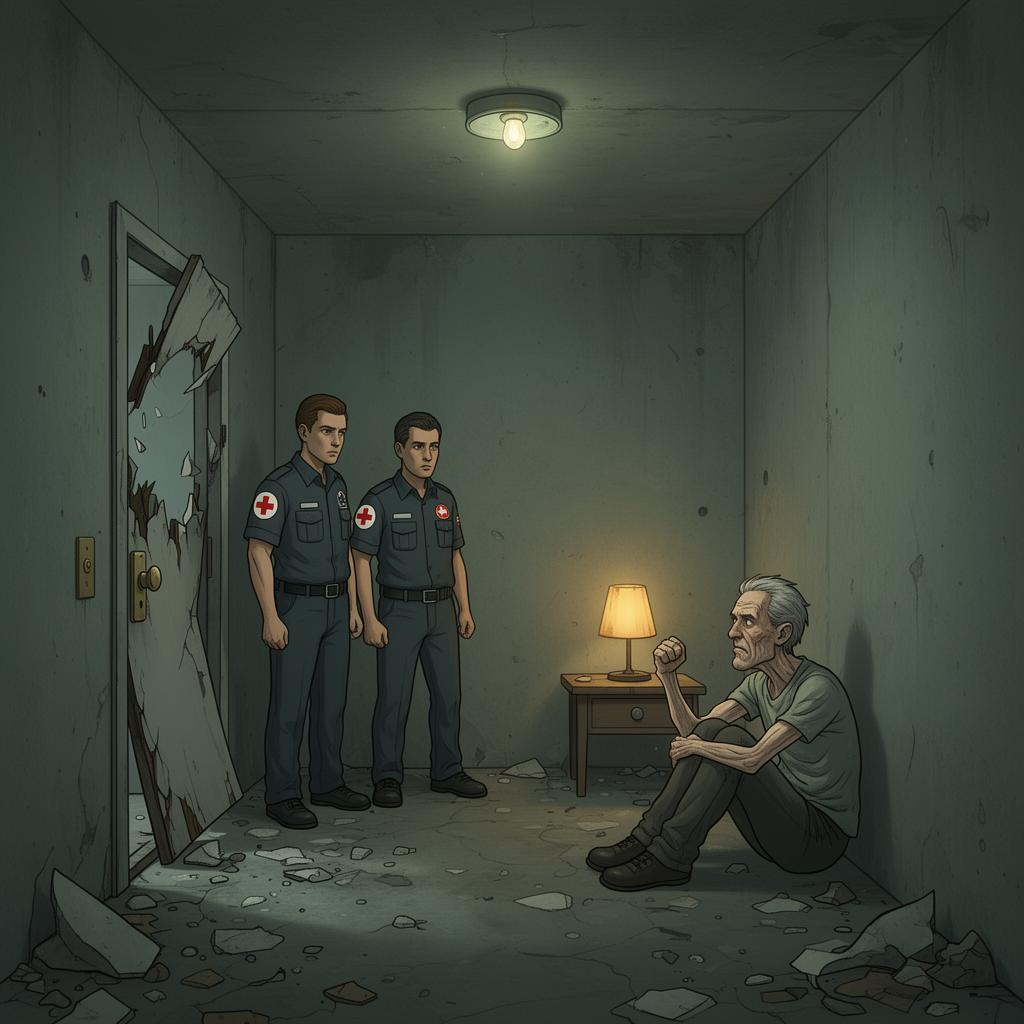
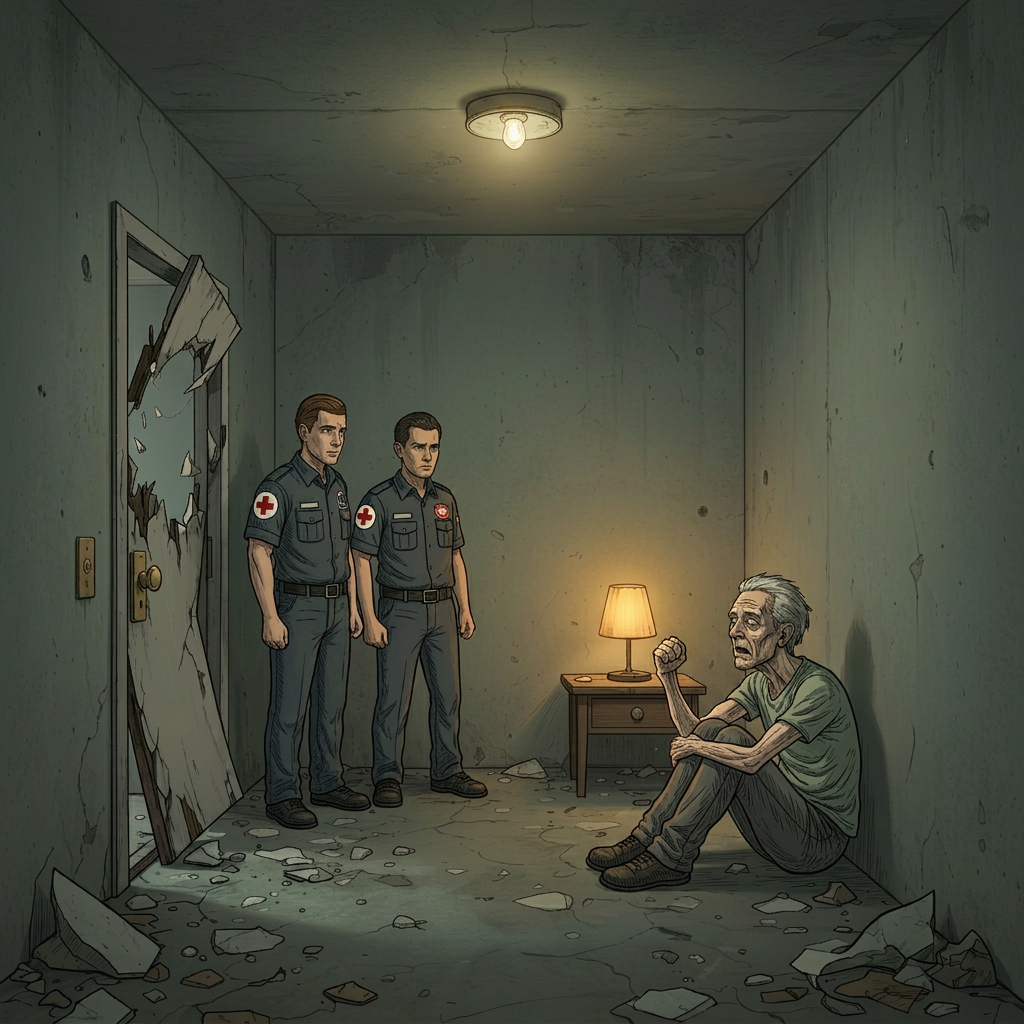
Changes

diff --git a/src/game/scenes.ts b/src/game/scenes.ts
@@ -327,12 +327,18 @@ export const scenes: Record<string, Scene> = {
         onUse: (api) => {
           api.setFlag("sawCatatonic");
           api.showText([
-            "Ein Mann, ausgemergelt. Fahle Haut. Hochgezogene Brauen.",
+            "Ein älterer Mann, ausgemergelt. Fahle Haut, graues Haar.",
+            "Mitte sechzig, vielleicht älter. Schwer zu sagen.",
             "Er sitzt auf dem Boden, den Rücken an der Wand,",
             "und schlägt mit leblosem Gesicht rhythmisch mit der Faust dagegen.",
+            "Die Sanitäter knien neben ihm. Sprechen ihn an.",
+            "Er reagiert nicht. Er sieht sie nicht an.",
+            "Er starrt apathisch ins Leere, an ihnen vorbei,",
+            "irgendwohin, wo nichts ist.",
             "Layard nimmt seinen Mut zusammen und schaut ihm in die Augen.",
             "Er erwartet tote, glasige Augen.",
-            "Stattdessen: grüne Augen. Eine seltsame Tiefe. Klarheit.",
+            "Stattdessen: grüne Augen. Eine seltsame Tiefe. Klarheit —",
+            "die niemanden hier meint.",
             "Wie ein Portal in ein mystisches Universum.",
             "Layard wird das Bild nicht mehr loswerden.",
           ]);

diff --git a/src/game/dialogs.ts b/src/game/dialogs.ts
@@ -83,7 +83,7 @@ export const dialogs: Record<string, DialogTree> = {
       q3: {
         id: "q3",
         speaker: "PHILIPPE",
-        text: "Hier wohnt ein alleinstehender Mann, Anfang dreißig. Ich weiß nicht, wie er heißt. Ich habe geklingelt. Niemand öffnet.",
+        text: "Hier wohnt ein alleinstehender Mann. Älter, vielleicht Mitte sechzig. Ich weiß nicht, wie er heißt. Ich habe geklingelt. Niemand öffnet.",
         subtext: "Niemand kennt hier den Nachbarn. Das ist Statut, nicht Zufall.",
         next: "q4",
       },
@@ -144,7 +144,6 @@ export const dialogs: Record<string, DialogTree> = {
         id: "i6",
         speaker: "INSA",
         text: "Ich verstehe. Ich schicke ein Technik-Team und den diensthabenden Block-Sanitäter. Er kann weitere Kräfte mobilisieren, falls notwendig.",
-        subtext: "Sie ist froh, dass jemand antwortet. Wirklich froh.",
         next: "i7",
       },
       i7: {
